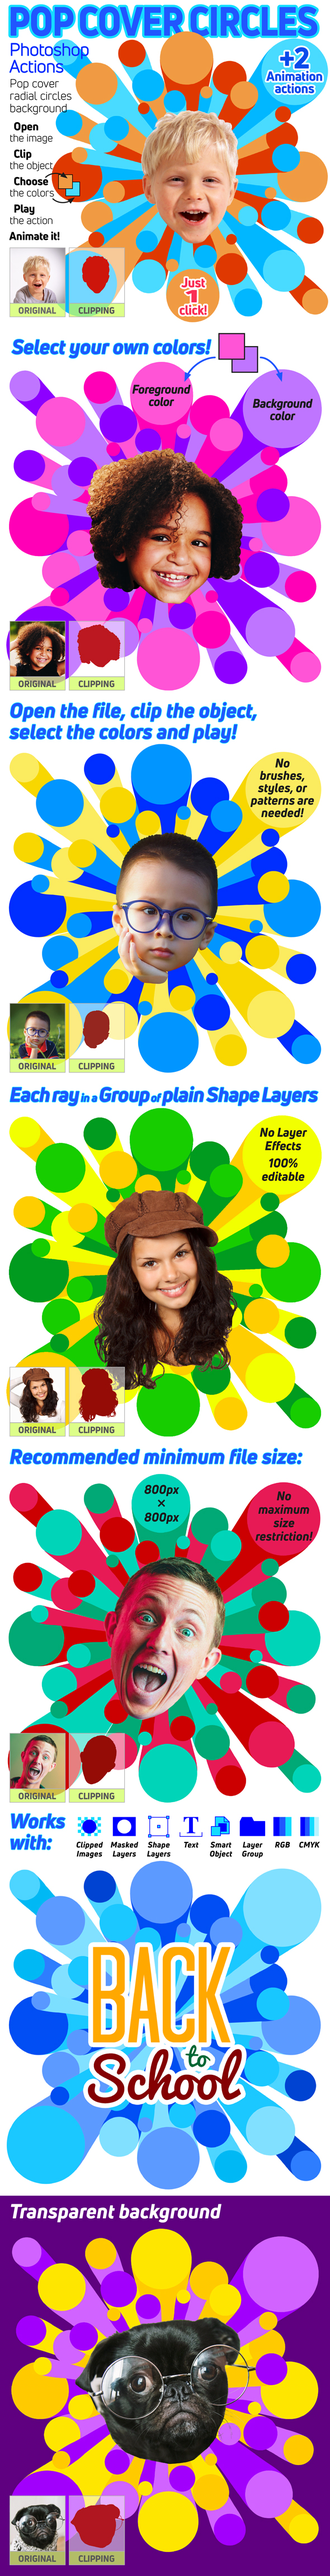
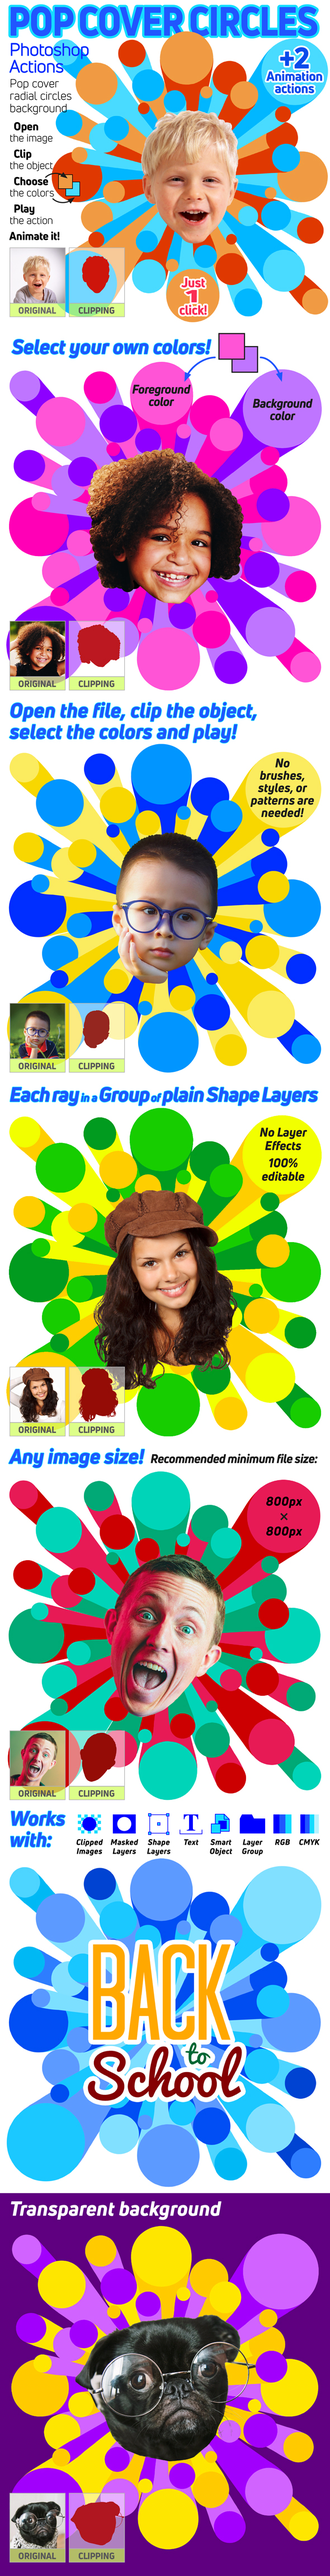
updet

Changed region(s): [[0.0305, 0.5596, 0.9763, 1.0], [0.8542, 0.4352, 0.8847, 0.4663]]

diff --git a/popcovercircle/index.html b/popcovercircle/index.html
@@ -20,8 +20,8 @@
 <div>        
 <h3 style="color:#054F6D">Content:</h3>
 <ul style="color:#bababa; margin-left:30px;">
-<li>The action file: POP COVER CIRCLES.atn<ul>+2 animation styles:<li>ANIMATION ALL AT ONCE</li><li>ANIMATION BEATING</li></ul></li>
-<li>The help and instructions file, English/Spanish:<br>Pop Cover Circle Action Instructions.pdf</li>
+<li>The action file: POP COVER CIRCLES.atn with the action POP COVER CIRCLES + 2 animation actions:<ul><li>ANIMATION ALL AT ONCE</li><li>ANIMATION BEATING</li></ul></li>
+<li>The help and instructions file, English/Spanish:<br><strong>Pop Cover Circle Action Instructions.pdf</strong></li>
 
 </ul>
   
@@ -35,20 +35,21 @@
 <ul style="color:#bababa; margin-left:30px;">
 <li>From the <strong>Layers Panel</strong> click the image layer</li>
 <li>Clip the image leaving visible only the object from where the <i>POP COVER CIRCLES</i> will emerge</li>
+<li>From the <strong>Tools Panel</strong> choose a foreground and a background color for the rays, the action will distribute them over each element</li>
 <li>From the <strong>Actions Panel</strong> select the POP COVER CIRCLES action</li>
 <li>Press the Play Action button &#9658;</li></ul>
 
 <h3 style="color:#054F6D">Output:</h3>
 <ul style="color:#bababa; margin-left:30px;">
-<li>The action ends in a new file with a group containing the Pop Cover Circle layers, a background layer and the main object on top (the original file remains intact)</li>
-<li>All the layers are Vector Objects grouped according to their size and position in the image:
+<li>The action ends in a new file with four groups containing the Pop Cover Circle layers, a background layer and a top layer with the main object (the original file remains intact)</li>
+<li>All the rays are <strong>Shape Layers</strong> grouped according to their size and position in the image:
 <ul><li>Small Rays</li><li>Medium Rays</li><li>Big Rays</li><li>Exterior Rays</li></ul></li>
 </ul>
 
 
 <h3 style="color:#054F6D">Animation:</h3>
 <ul style="color:#bababa; margin-left:30px;">
-<li>From the <strong>Actions Panel</strong>, select one of the two possible animation actions:<ul><li>ANIMATION ALL AT ONCE</li><li>ANIMATION BEATING</li></ul></li>
+<li>From the <strong>Actions Panel</strong>, select one of the two animation actions:<ul><li>ANIMATION ALL AT ONCE</li><li>ANIMATION BEATING</li></ul></li>
 <li>Press the Play Action button &#9658;</li>
 
 <li>From the <strong>Timeline Panel</strong>, click on frame #1 and press the Play Animation button &#9658; to see the animation</li>
@@ -63,8 +64,7 @@
 <li>All the rays in editable Vector Layers</li>
 <li>All rays well arranged in separated Layer Groups</li>
 <li>30 animation frames ready to save as a GIF format</li>
-<li>Recommended minimum image size: 800px x 800px</li>
-<li>Recommended maximum image size: no limits!</li>
+<li>Any size! Recommended minimum image size: 800px x 800px</li>
 </ul>
 
 
